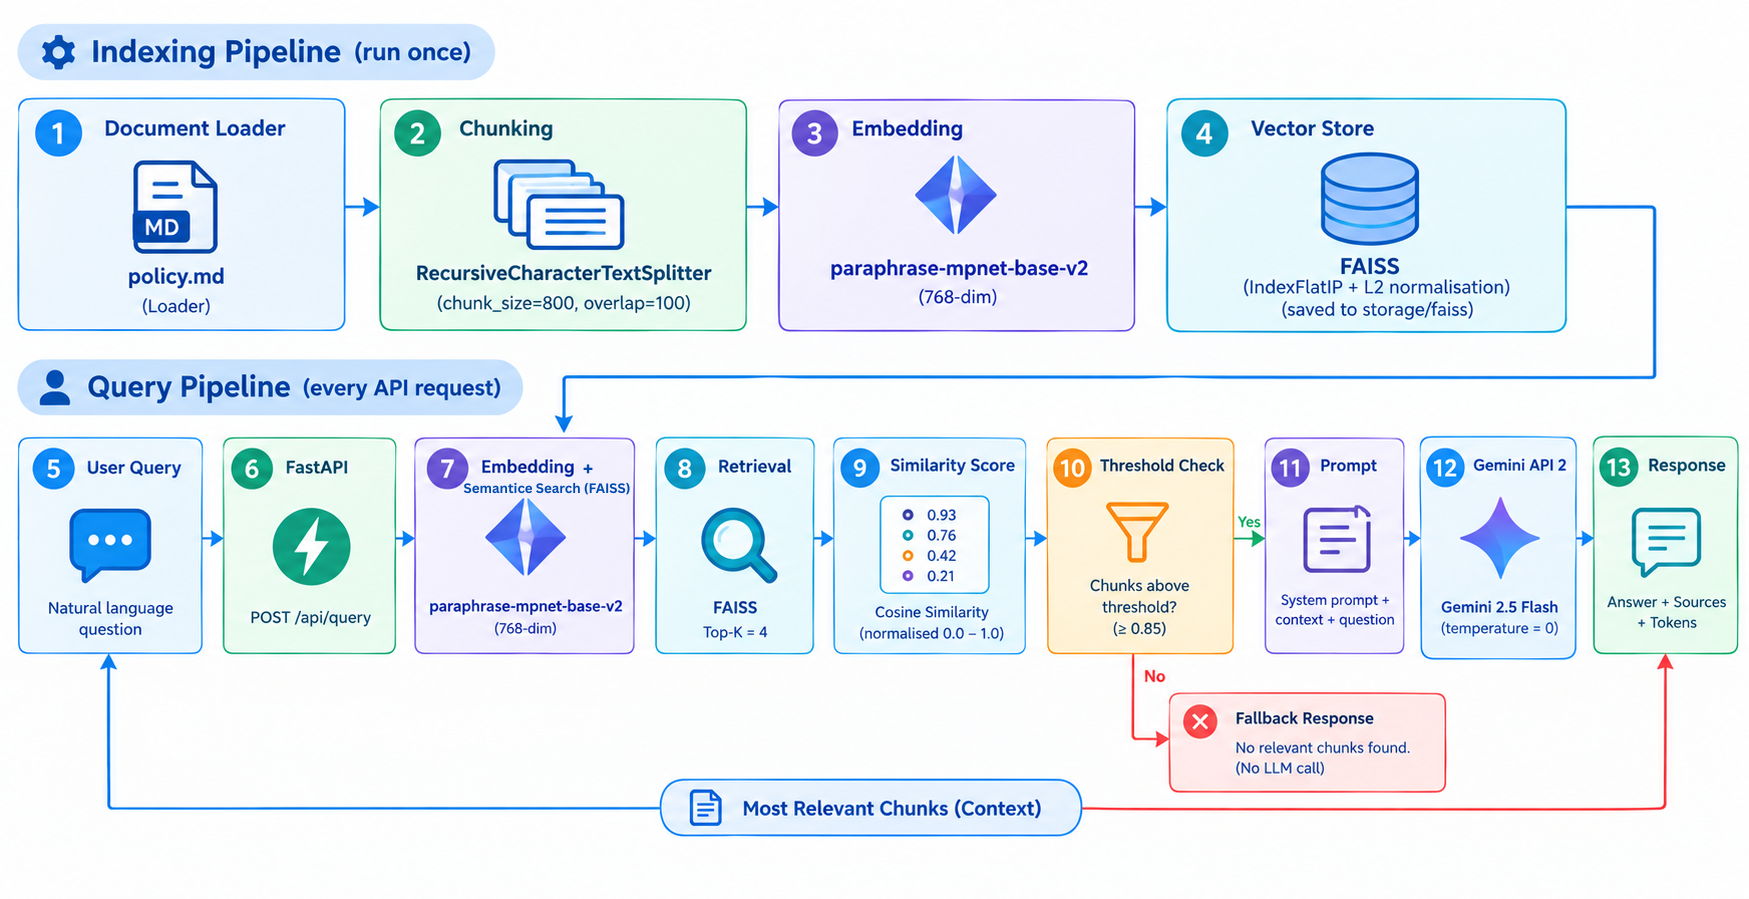
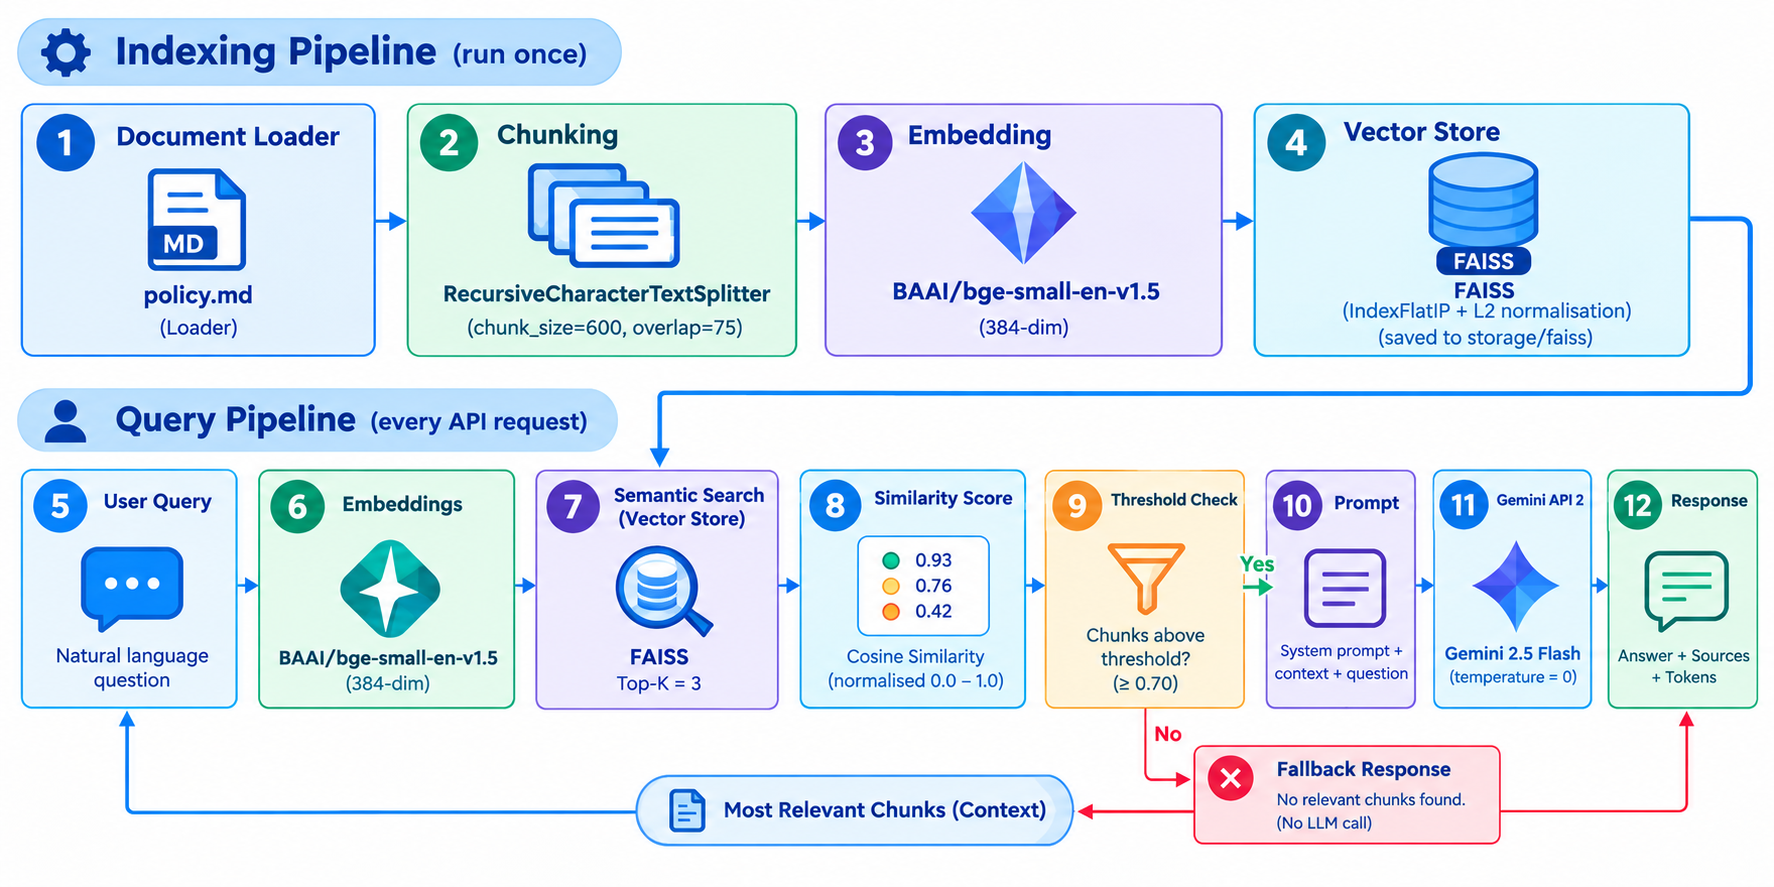
FInal Project Update

diff --git a/README.md b/README.md
@@ -7,6 +7,11 @@ with FAISS and asks Gemini 2.5 Flash to answer only from those passages.
 If no retrieved passage reaches the configured similarity threshold, the
 service returns a deterministic fallback and does not call Gemini.
 
+## RAG Pipeline Flowchart
+
+![RAG Pipeline Infographic Flowchart](RAG%20Pipeline%20Infographic%20Flowchart.png)
+
+
 ## Stack and design choices
 
 - **FastAPI + Uvicorn**: typed REST API with automatic OpenAPI documentation.
@@ -35,6 +40,7 @@ that does not change the application configuration.
 `600/75` keeps enough local context while limiting prompt size. `TOP_K=3`
 provides a small, focused context window, and the threshold prevents weak
 matches from reaching the LLM.
+
 
 ## Project structure
 
